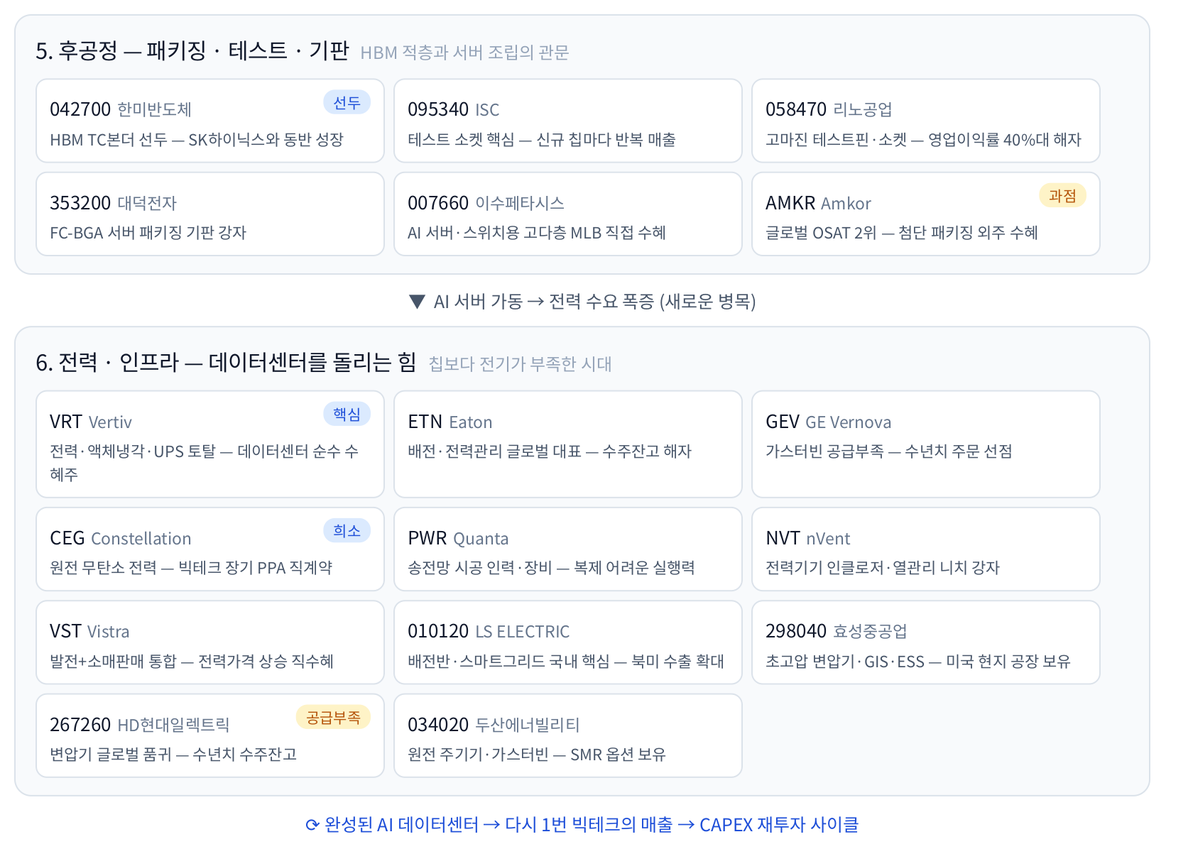
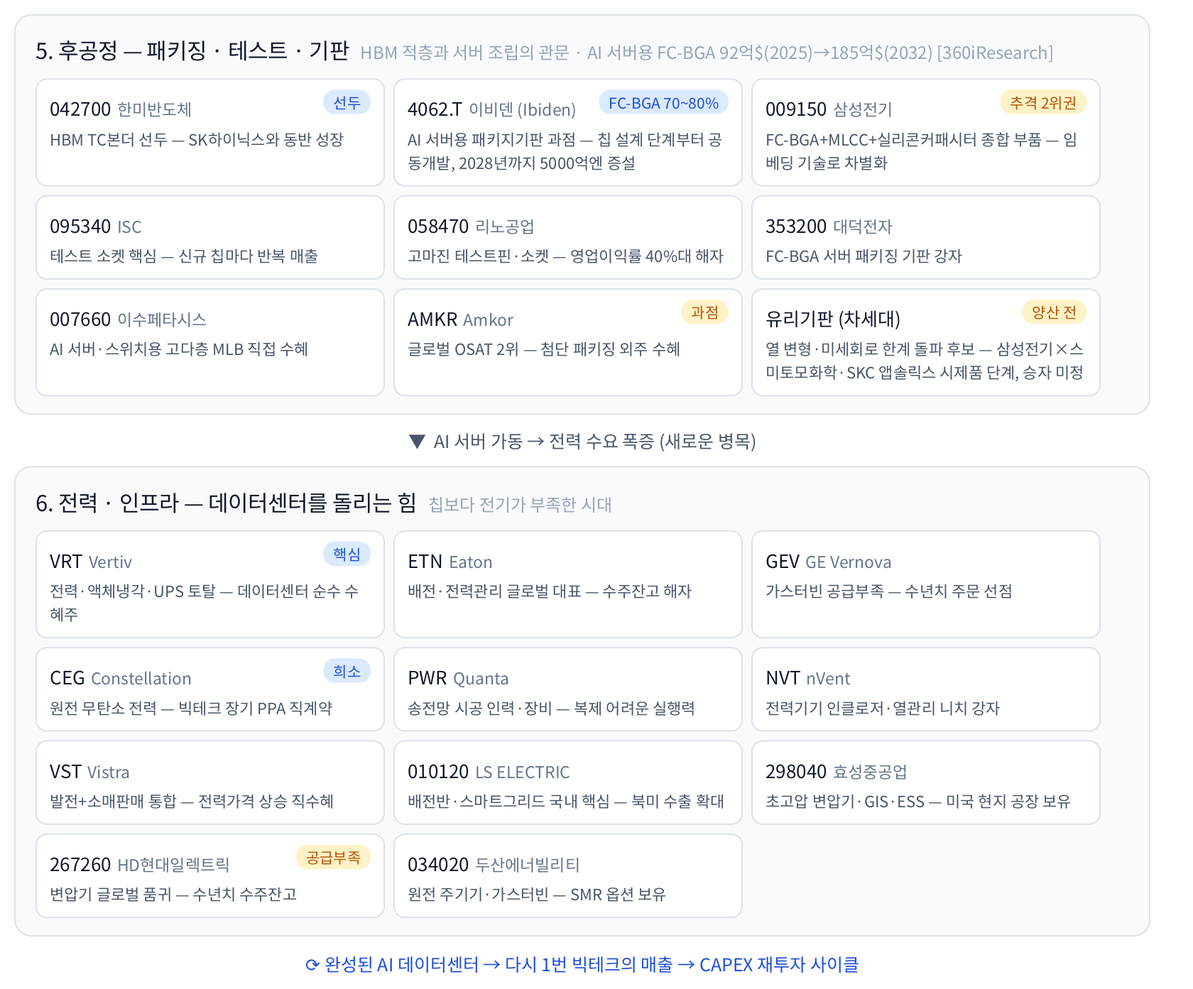
[부록C·D] AI 반도체에 패키지기판(FC-BGA) 축 반영(v3.90.0·plugin 1.43.0) — 이비덴(FC-BGA 70~80% 과점)·삼성전기 추가(46→48종, 야후 실측 48/48·errs 0), 부록D 후공정에 이비덴·삼성전기·유리기판(양산 전) 카드+시장수치(92억$→185억$) 추가·PNG 3장 재생성 렌더 확인, fetch_appc 분모 39 하드코딩 수정. 근거: 매경LUXMEN 2026.09 '이비덴 독주에 삼성전기 맹추격'

Changed region(s): [[0.031, 0.3712, 0.9286, 0.9281], [0.0, 0.0, 0.9595, 0.4022], [0.2476, 0.959, 0.7429, 0.99]]

diff --git a/assets/appd_valuechain.html b/assets/appd_valuechain.html
@@ -19,4 +19,4 @@ body { font-family:'Noto Sans CJK KR','Noto Sans KR',sans-serif; margin:0; paddi
 .b2 { background:#fef3c7; color:#b45309; }
 .arr { text-align:center; color:#475569; font-size:12.5px; padding:9px 0; }
 .cyc { text-align:center; color:#1d4ed8; font-size:12.5px; padding:10px 0 2px; }
-</style></head><body><div class="leg"><span class="b1">독점·준독점</span> 대체재가 사실상 없음&nbsp;&nbsp;&nbsp;<span class="b2">과점·복점·양강</span> 2~3개사가 시장 분할</div><div class="sec"><div class="sh"><span class="t">1. 수요 — 빅테크 (돈의 출발점)</span><span class="s">연 수천억 달러 AI CAPEX 집행</span></div><div class="cards"><div class="card"><span class="tk">MSFT</span><span class="nm">Microsoft</span><div class="mo">OpenAI 동맹 + Azure — AI 소프트웨어 배급망 장악</div></div><div class="card"><span class="tk">GOOGL</span><span class="nm">Alphabet</span><div class="mo">자체 TPU 설계 + 검색·클라우드 데이터 해자</div></div><div class="card"><span class="tk">AMZN</span><span class="nm">Amazon</span><div class="mo">AWS 점유 1위 + 자체칩(Trainium)으로 원가 통제</div></div><div class="card"><span class="tk">META</span><span class="nm">Meta</span><div class="mo">광고 AI로 CAPEX를 즉시 수익화하는 구조</div></div><div class="card"><span class="tk">ORCL</span><span class="nm">Oracle</span><div class="mo">OCI 대형 AI 계약 수주로 '제4 클라우드' 부상</div></div></div></div><div class="arr">▼&nbsp;&nbsp;AI 칩 주문 — CAPEX가 아래로 흘러내린다</div><div class="sec"><div class="sh"><span class="t">2. 설계 — 팹리스 · EDA · 인터커넥트</span><span class="s">공장 없이 설계도와 생태계로 지배</span></div><div class="cards"><div class="card"><span class="b1">독점적</span><span class="tk">NVDA</span><span class="nm">NVIDIA</span><div class="mo">CUDA 소프트웨어 락인 — 칩이 아니라 생태계가 해자</div></div><div class="card"><span class="tk">AMD</span><span class="nm">AMD</span><div class="mo">유일하게 규모 있는 GPU 대안 — 수요처가 키워주는 2등</div></div><div class="card"><span class="b2">과점</span><span class="tk">AVGO</span><span class="nm">Broadcom</span><div class="mo">빅테크 자체칩(ASIC) 설계 대행 + 네트워크칩 지배</div></div><div class="card"><span class="tk">MRVL</span><span class="nm">Marvell</span><div class="mo">커스텀 실리콘 2강 — Broadcom과 시장 분할</div></div><div class="card"><span class="b1">표준</span><span class="tk">ARM</span><span class="nm">Arm</span><div class="mo">저전력 CPU 설계 IP의 사실상 표준 — 로열티 수취</div></div><div class="card"><span class="b2">복점</span><span class="tk">SNPS</span><span class="nm">Synopsys</span><div class="mo">EDA 툴 없인 칩 설계 불가 — Cadence와 복점</div></div><div class="card"><span class="b2">복점</span><span class="tk">CDNS</span><span class="nm">Cadence</span><div class="mo">설계·검증 EDA 복점의 다른 한 축</div></div><div class="card"><span class="tk">ANET</span><span class="nm">Arista</span><div class="mo">GPU 수만 개를 묶는 AI 클러스터 스위치 1위</div></div><div class="card"><span class="tk">CRDO</span><span class="nm">Credo</span><div class="mo">칩 간 고속연결 SerDes — 대역폭 병목 해소</div></div><div class="card"><span class="tk">ALAB</span><span class="nm">Astera Labs</span><div class="mo">PCIe/CXL 리타이머 선점 — AI 서버 표준 부품화</div></div></div></div><div class="arr">▼&nbsp;&nbsp;설계도 → 위탁생산 (장비·소재 없이는 공장이 못 돈다)</div><div class="sec"><div class="sh"><span class="t">3. 장비 · 소재 — 제조의 병목 공급자</span><span class="s">파운드리·메모리가 전량 의존</span></div><div class="cards"><div class="card"><span class="b1">완전독점</span><span class="tk">ASML</span><span class="nm">ASML</span><div class="mo">EUV 노광기 지구상 유일 제조사 — 최상위 병목</div></div><div class="card"><span class="tk">AMAT</span><span class="nm">Applied Materials</span><div class="mo">증착·이온주입 등 최광폭 장비 포트폴리오</div></div><div class="card"><span class="b2">과점</span><span class="tk">LRCX</span><span class="nm">Lam Research</span><div class="mo">식각 장비 강자 — 적층 늘수록 수혜</div></div><div class="card"><span class="b1">독점적</span><span class="tk">KLAC</span><span class="nm">KLA</span><div class="mo">검사·계측 점유 과반 — 수율 관리의 관문</div></div><div class="card"><span class="b1">준독점</span><span class="tk">8035.T</span><span class="nm">Tokyo Electron</span><div class="mo">포토레지스트 도포 트랙 등 준독점 영역 보유</div></div><div class="card"><span class="b2">양강</span><span class="tk">6857.T</span><span class="nm">Advantest</span><div class="mo">AI 가속기·HBM 테스터 양강 — 검사 없인 출하 불가</div></div><div class="card"><span class="b1">준독점</span><span class="tk">6146.T</span><span class="nm">Disco</span><div class="mo">웨이퍼 그라인더·다이서 사실상 독점 — HBM 적층 필수</div></div><div class="card"><span class="b2">양강</span><span class="tk">4063.T</span><span class="nm">Shin-Etsu</span><div class="mo">실리콘 웨이퍼·포토레지스트 최상위 소재</div></div><div class="card"><span class="b2">양강</span><span class="tk">3436.T</span><span class="nm">SUMCO</span><div class="mo">웨이퍼 양강의 다른 축 — 신규진입 사실상 불가</div></div></div></div><div class="arr">▼&nbsp;&nbsp;장비·소재 공급</div><div class="sec"><div class="sh"><span class="t">4. 제조 — 파운드리 & 메모리(HBM)</span><span class="s">설계도를 실물 칩으로</span></div><div class="cards"><div class="card"><span class="b1">독점적</span><span class="tk">TSM</span><span class="nm">TSMC</span><div class="mo">3nm 이하 선단공정 사실상 독점 — NVDA·AMD·AVGO 전부 여기서 생산</div></div><div class="card"><span class="tk">005930</span><span class="nm">삼성전자</span><div class="mo">메모리+파운드리 동시 보유 유일 기업</div></div><div class="card"><span class="tk">INTC</span><span class="nm">Intel</span><div class="mo">미국 내 파운드리 재건 — 지정학이 만든 옵션가치</div></div><div class="card"><span class="b1">1위</span><span class="tk">000660</span><span class="nm">SK하이닉스</span><div class="mo">HBM 점유 1위 — NVIDIA 최우선 공급사 지위</div></div><div class="card"><span class="b2">3강</span><span class="tk">MU</span><span class="nm">Micron</span><div class="mo">HBM·DRAM 3강 — 미국 유일 메모리사</div></div></div></div><div class="arr">▼&nbsp;&nbsp;칩 완성 → 적층·패키징·테스트 (한국 기업 밀집 구간)</div><div class="sec"><div class="sh"><span class="t">5. 후공정 — 패키징 · 테스트 · 기판</span><span class="s">HBM 적층과 서버 조립의 관문</span></div><div class="cards"><div class="card"><span class="b1">선두</span><span class="tk">042700</span><span class="nm">한미반도체</span><div class="mo">HBM TC본더 선두 — SK하이닉스와 동반 성장</div></div><div class="card"><span class="tk">095340</span><span class="nm">ISC</span><div class="mo">테스트 소켓 핵심 — 신규 칩마다 반복 매출</div></div><div class="card"><span class="tk">058470</span><span class="nm">리노공업</span><div class="mo">고마진 테스트핀·소켓 — 영업이익률 40%대 해자</div></div><div class="card"><span class="tk">353200</span><span class="nm">대덕전자</span><div class="mo">FC-BGA 서버 패키징 기판 강자</div></div><div class="card"><span class="tk">007660</span><span class="nm">이수페타시스</span><div class="mo">AI 서버·스위치용 고다층 MLB 직접 수혜</div></div><div class="card"><span class="b2">과점</span><span class="tk">AMKR</span><span class="nm">Amkor</span><div class="mo">글로벌 OSAT 2위 — 첨단 패키징 외주 수혜</div></div></div></div><div class="arr">▼&nbsp;&nbsp;AI 서버 가동 → 전력 수요 폭증 (새로운 병목)</div><div class="sec"><div class="sh"><span class="t">6. 전력 · 인프라 — 데이터센터를 돌리는 힘</span><span class="s">칩보다 전기가 부족한 시대</span></div><div class="cards"><div class="card"><span class="b1">핵심</span><span class="tk">VRT</span><span class="nm">Vertiv</span><div class="mo">전력·액체냉각·UPS 토탈 — 데이터센터 순수 수혜주</div></div><div class="card"><span class="tk">ETN</span><span class="nm">Eaton</span><div class="mo">배전·전력관리 글로벌 대표 — 수주잔고 해자</div></div><div class="card"><span class="tk">GEV</span><span class="nm">GE Vernova</span><div class="mo">가스터빈 공급부족 — 수년치 주문 선점</div></div><div class="card"><span class="b1">희소</span><span class="tk">CEG</span><span class="nm">Constellation</span><div class="mo">원전 무탄소 전력 — 빅테크 장기 PPA 직계약</div></div><div class="card"><span class="tk">PWR</span><span class="nm">Quanta</span><div class="mo">송전망 시공 인력·장비 — 복제 어려운 실행력</div></div><div class="card"><span class="tk">NVT</span><span class="nm">nVent</span><div class="mo">전력기기 인클로저·열관리 니치 강자</div></div><div class="card"><span class="tk">VST</span><span class="nm">Vistra</span><div class="mo">발전+소매판매 통합 — 전력가격 상승 직수혜</div></div><div class="card"><span class="tk">010120</span><span class="nm">LS ELECTRIC</span><div class="mo">배전반·스마트그리드 국내 핵심 — 북미 수출 확대</div></div><div class="card"><span class="tk">298040</span><span class="nm">효성중공업</span><div class="mo">초고압 변압기·GIS·ESS — 미국 현지 공장 보유</div></div><div class="card"><span class="b2">공급부족</span><span class="tk">267260</span><span class="nm">HD현대일렉트릭</span><div class="mo">변압기 글로벌 품귀 — 수년치 수주잔고</div></div><div class="card"><span class="tk">034020</span><span class="nm">두산에너빌리티</span><div class="mo">원전 주기기·가스터빈 — SMR 옵션 보유</div></div></div></div><div class="cyc">⟳ 완성된 AI 데이터센터 → 다시 1번 빅테크의 매출 → CAPEX 재투자 사이클</div></body></html>
+</style></head><body><div class="leg"><span class="b1">독점·준독점</span> 대체재가 사실상 없음&nbsp;&nbsp;&nbsp;<span class="b2">과점·복점·양강</span> 2~3개사가 시장 분할</div><div class="sec"><div class="sh"><span class="t">1. 수요 — 빅테크 (돈의 출발점)</span><span class="s">연 수천억 달러 AI CAPEX 집행</span></div><div class="cards"><div class="card"><span class="tk">MSFT</span><span class="nm">Microsoft</span><div class="mo">OpenAI 동맹 + Azure — AI 소프트웨어 배급망 장악</div></div><div class="card"><span class="tk">GOOGL</span><span class="nm">Alphabet</span><div class="mo">자체 TPU 설계 + 검색·클라우드 데이터 해자</div></div><div class="card"><span class="tk">AMZN</span><span class="nm">Amazon</span><div class="mo">AWS 점유 1위 + 자체칩(Trainium)으로 원가 통제</div></div><div class="card"><span class="tk">META</span><span class="nm">Meta</span><div class="mo">광고 AI로 CAPEX를 즉시 수익화하는 구조</div></div><div class="card"><span class="tk">ORCL</span><span class="nm">Oracle</span><div class="mo">OCI 대형 AI 계약 수주로 '제4 클라우드' 부상</div></div></div></div><div class="arr">▼&nbsp;&nbsp;AI 칩 주문 — CAPEX가 아래로 흘러내린다</div><div class="sec"><div class="sh"><span class="t">2. 설계 — 팹리스 · EDA · 인터커넥트</span><span class="s">공장 없이 설계도와 생태계로 지배</span></div><div class="cards"><div class="card"><span class="b1">독점적</span><span class="tk">NVDA</span><span class="nm">NVIDIA</span><div class="mo">CUDA 소프트웨어 락인 — 칩이 아니라 생태계가 해자</div></div><div class="card"><span class="tk">AMD</span><span class="nm">AMD</span><div class="mo">유일하게 규모 있는 GPU 대안 — 수요처가 키워주는 2등</div></div><div class="card"><span class="b2">과점</span><span class="tk">AVGO</span><span class="nm">Broadcom</span><div class="mo">빅테크 자체칩(ASIC) 설계 대행 + 네트워크칩 지배</div></div><div class="card"><span class="tk">MRVL</span><span class="nm">Marvell</span><div class="mo">커스텀 실리콘 2강 — Broadcom과 시장 분할</div></div><div class="card"><span class="b1">표준</span><span class="tk">ARM</span><span class="nm">Arm</span><div class="mo">저전력 CPU 설계 IP의 사실상 표준 — 로열티 수취</div></div><div class="card"><span class="b2">복점</span><span class="tk">SNPS</span><span class="nm">Synopsys</span><div class="mo">EDA 툴 없인 칩 설계 불가 — Cadence와 복점</div></div><div class="card"><span class="b2">복점</span><span class="tk">CDNS</span><span class="nm">Cadence</span><div class="mo">설계·검증 EDA 복점의 다른 한 축</div></div><div class="card"><span class="tk">ANET</span><span class="nm">Arista</span><div class="mo">GPU 수만 개를 묶는 AI 클러스터 스위치 1위</div></div><div class="card"><span class="tk">CRDO</span><span class="nm">Credo</span><div class="mo">칩 간 고속연결 SerDes — 대역폭 병목 해소</div></div><div class="card"><span class="tk">ALAB</span><span class="nm">Astera Labs</span><div class="mo">PCIe/CXL 리타이머 선점 — AI 서버 표준 부품화</div></div></div></div><div class="arr">▼&nbsp;&nbsp;설계도 → 위탁생산 (장비·소재 없이는 공장이 못 돈다)</div><div class="sec"><div class="sh"><span class="t">3. 장비 · 소재 — 제조의 병목 공급자</span><span class="s">파운드리·메모리가 전량 의존</span></div><div class="cards"><div class="card"><span class="b1">완전독점</span><span class="tk">ASML</span><span class="nm">ASML</span><div class="mo">EUV 노광기 지구상 유일 제조사 — 최상위 병목</div></div><div class="card"><span class="tk">AMAT</span><span class="nm">Applied Materials</span><div class="mo">증착·이온주입 등 최광폭 장비 포트폴리오</div></div><div class="card"><span class="b2">과점</span><span class="tk">LRCX</span><span class="nm">Lam Research</span><div class="mo">식각 장비 강자 — 적층 늘수록 수혜</div></div><div class="card"><span class="b1">독점적</span><span class="tk">KLAC</span><span class="nm">KLA</span><div class="mo">검사·계측 점유 과반 — 수율 관리의 관문</div></div><div class="card"><span class="b1">준독점</span><span class="tk">8035.T</span><span class="nm">Tokyo Electron</span><div class="mo">포토레지스트 도포 트랙 등 준독점 영역 보유</div></div><div class="card"><span class="b2">양강</span><span class="tk">6857.T</span><span class="nm">Advantest</span><div class="mo">AI 가속기·HBM 테스터 양강 — 검사 없인 출하 불가</div></div><div class="card"><span class="b1">준독점</span><span class="tk">6146.T</span><span class="nm">Disco</span><div class="mo">웨이퍼 그라인더·다이서 사실상 독점 — HBM 적층 필수</div></div><div class="card"><span class="b2">양강</span><span class="tk">4063.T</span><span class="nm">Shin-Etsu</span><div class="mo">실리콘 웨이퍼·포토레지스트 최상위 소재</div></div><div class="card"><span class="b2">양강</span><span class="tk">3436.T</span><span class="nm">SUMCO</span><div class="mo">웨이퍼 양강의 다른 축 — 신규진입 사실상 불가</div></div></div></div><div class="arr">▼&nbsp;&nbsp;장비·소재 공급</div><div class="sec"><div class="sh"><span class="t">4. 제조 — 파운드리 & 메모리(HBM)</span><span class="s">설계도를 실물 칩으로</span></div><div class="cards"><div class="card"><span class="b1">독점적</span><span class="tk">TSM</span><span class="nm">TSMC</span><div class="mo">3nm 이하 선단공정 사실상 독점 — NVDA·AMD·AVGO 전부 여기서 생산</div></div><div class="card"><span class="tk">005930</span><span class="nm">삼성전자</span><div class="mo">메모리+파운드리 동시 보유 유일 기업</div></div><div class="card"><span class="tk">INTC</span><span class="nm">Intel</span><div class="mo">미국 내 파운드리 재건 — 지정학이 만든 옵션가치</div></div><div class="card"><span class="b1">1위</span><span class="tk">000660</span><span class="nm">SK하이닉스</span><div class="mo">HBM 점유 1위 — NVIDIA 최우선 공급사 지위</div></div><div class="card"><span class="b2">3강</span><span class="tk">MU</span><span class="nm">Micron</span><div class="mo">HBM·DRAM 3강 — 미국 유일 메모리사</div></div></div></div><div class="arr">▼&nbsp;&nbsp;칩 완성 → 적층·패키징·테스트 (한국 기업 밀집 구간)</div><div class="sec"><div class="sh"><span class="t">5. 후공정 — 패키징 · 테스트 · 기판</span><span class="s">HBM 적층과 서버 조립의 관문 · AI 서버용 FC-BGA 92억$(2025)→185억$(2032) [360iResearch]</span></div><div class="cards"><div class="card"><span class="b1">선두</span><span class="tk">042700</span><span class="nm">한미반도체</span><div class="mo">HBM TC본더 선두 — SK하이닉스와 동반 성장</div></div><div class="card"><span class="b1">FC-BGA 70~80%</span><span class="tk">4062.T</span><span class="nm">이비덴 (Ibiden)</span><div class="mo">AI 서버용 패키지기판 과점 — 칩 설계 단계부터 공동개발, 2028년까지 5000억엔 증설</div></div><div class="card"><span class="b2">추격 2위권</span><span class="tk">009150</span><span class="nm">삼성전기</span><div class="mo">FC-BGA+MLCC+실리콘커패시터 종합 부품 — 임베딩 기술로 차별화</div></div><div class="card"><span class="tk">095340</span><span class="nm">ISC</span><div class="mo">테스트 소켓 핵심 — 신규 칩마다 반복 매출</div></div><div class="card"><span class="tk">058470</span><span class="nm">리노공업</span><div class="mo">고마진 테스트핀·소켓 — 영업이익률 40%대 해자</div></div><div class="card"><span class="tk">353200</span><span class="nm">대덕전자</span><div class="mo">FC-BGA 서버 패키징 기판 강자</div></div><div class="card"><span class="tk">007660</span><span class="nm">이수페타시스</span><div class="mo">AI 서버·스위치용 고다층 MLB 직접 수혜</div></div><div class="card"><span class="b2">과점</span><span class="tk">AMKR</span><span class="nm">Amkor</span><div class="mo">글로벌 OSAT 2위 — 첨단 패키징 외주 수혜</div></div><div class="card"><span class="b2">양산 전</span><span class="tk">유리기판 (차세대)</span><span class="nm"></span><div class="mo">열 변형·미세회로 한계 돌파 후보 — 삼성전기×스미토모화학·SKC 앱솔릭스 시제품 단계, 승자 미정</div></div></div></div><div class="arr">▼&nbsp;&nbsp;AI 서버 가동 → 전력 수요 폭증 (새로운 병목)</div><div class="sec"><div class="sh"><span class="t">6. 전력 · 인프라 — 데이터센터를 돌리는 힘</span><span class="s">칩보다 전기가 부족한 시대</span></div><div class="cards"><div class="card"><span class="b1">핵심</span><span class="tk">VRT</span><span class="nm">Vertiv</span><div class="mo">전력·액체냉각·UPS 토탈 — 데이터센터 순수 수혜주</div></div><div class="card"><span class="tk">ETN</span><span class="nm">Eaton</span><div class="mo">배전·전력관리 글로벌 대표 — 수주잔고 해자</div></div><div class="card"><span class="tk">GEV</span><span class="nm">GE Vernova</span><div class="mo">가스터빈 공급부족 — 수년치 주문 선점</div></div><div class="card"><span class="b1">희소</span><span class="tk">CEG</span><span class="nm">Constellation</span><div class="mo">원전 무탄소 전력 — 빅테크 장기 PPA 직계약</div></div><div class="card"><span class="tk">PWR</span><span class="nm">Quanta</span><div class="mo">송전망 시공 인력·장비 — 복제 어려운 실행력</div></div><div class="card"><span class="tk">NVT</span><span class="nm">nVent</span><div class="mo">전력기기 인클로저·열관리 니치 강자</div></div><div class="card"><span class="tk">VST</span><span class="nm">Vistra</span><div class="mo">발전+소매판매 통합 — 전력가격 상승 직수혜</div></div><div class="card"><span class="tk">010120</span><span class="nm">LS ELECTRIC</span><div class="mo">배전반·스마트그리드 국내 핵심 — 북미 수출 확대</div></div><div class="card"><span class="tk">298040</span><span class="nm">효성중공업</span><div class="mo">초고압 변압기·GIS·ESS — 미국 현지 공장 보유</div></div><div class="card"><span class="b2">공급부족</span><span class="tk">267260</span><span class="nm">HD현대일렉트릭</span><div class="mo">변압기 글로벌 품귀 — 수년치 수주잔고</div></div><div class="card"><span class="tk">034020</span><span class="nm">두산에너빌리티</span><div class="mo">원전 주기기·가스터빈 — SMR 옵션 보유</div></div></div></div><div class="cyc">⟳ 완성된 AI 데이터센터 → 다시 1번 빅테크의 매출 → CAPEX 재투자 사이클</div></body></html>

diff --git a/plugins/namoobi-market-report/skills/namoobi-market-report/scripts/build_report.js b/plugins/namoobi-market-report/skills/namoobi-market-report/scripts/build_report.js
@@ -1759,7 +1759,7 @@ function renderAITrends(){ const a=data.ai_trends; if(!a)return;
   });
   children.push(p("※ 본 부록은 news.hada.io · news.hada.io/weekly · 특이점 갤러리 등 공개 소스와 웹 검색으로 큐레이션한 참고용 요약입니다.",{size:16,italics:true,color:"94A3B8"}));
 }
-// (v3.51) [부록C] AI 반도체 밸류체인 — 글로벌 개별종목 43종(분류 그룹별 추세표). 데이터(markets.appendix_c) 없으면 자동 생략.
+// (v3.51) [부록C] AI 반도체 밸류체인 — 글로벌 개별종목 48종(분류 그룹별 추세표, v3.90 이비덴·삼성전기 추가). 데이터(markets.appendix_c) 없으면 자동 생략.
 function renderAppendixC(){ const e=data.markets&&data.markets.appendix_c; if(!e||!e.rows||typeof e.rows!=="object")return;
   const groups=Array.isArray(e.groups)?e.groups:Object.keys(e.rows);
   const GL="①②③④⑤⑥⑦⑧⑨⑩";

diff --git a/plugins/namoobi-market-report/skills/namoobi-market-report/scripts/fetch_appc.py b/plugins/namoobi-market-report/skills/namoobi-market-report/scripts/fetch_appc.py
@@ -1,5 +1,6 @@
 #!/usr/bin/env python3
-# fetch_appc.py — [부록C] AI 반도체 밸류체인 46종 (미국 31·일본 4·한국 11) — v3.51 신설, v3.52.1 ORCL·이수페타시스·AMKR 추가
+# fetch_appc.py — [부록C] AI 반도체 밸류체인 48종 (미국 31·일본 5·한국 12) — v3.51 신설, v3.52.1 ORCL·이수페타시스·AMKR 추가,
+#   v3.90 이비덴·삼성전기 추가(패키지기판 FC-BGA 축 — 매경LUXMEN 2026.09 'AI 반도체 승부처 칩에서 기판으로' 반영)
 # sandbox·stdlib·스레드 병렬(Phase 1 bash tool-call). 야후 일봉 2y → nmr_appc.json(그룹별 rows)+nmr_appc_series.json(1Y 스파크).
 # 멤버십 변경 시 ROWS 갱신. 추정 금지 — 이력 없으면 '-'(비차단).
 import urllib.request, urllib.parse, json, datetime as dt, concurrent.futures as cf, os, sys
@@ -39,6 +40,8 @@ ROWS=[
  ("후공정/패키징","042700.KS","한미반도체","HBM 본딩 장비 대표주"),
  ("후공정/패키징","095340.KQ","ISC","테스트 소켓 핵심 기업"),
  ("후공정/패키징","058470.KQ","리노공업","고마진 테스트 소켓 강자"),
+ ("후공정/패키징","4062.T","이비덴 (Ibiden)","AI 서버용 FC-BGA 70~80% 과점 — 엔비디아 등 공급망 선점, 2028년까지 5000억엔 증설"),
+ ("후공정/패키징","009150.KS","삼성전기","FC-BGA+MLCC+실리콘커패시터 종합 부품으로 이비덴 추격 — 스미토모화학과 유리기판 개발"),
  ("후공정/패키징","353200.KS","대덕전자","서버·패키징 기판 강자"),
  ("후공정/패키징","007660.KS","이수페타시스","AI 서버 고다층 MLB의 직접 수혜주"),
  ("후공정/패키징","AMKR","Amkor Technology","글로벌 OSAT 대표주"),
@@ -112,4 +115,4 @@ for g in GROUPS:
     print(f"◆ {g}")
     for r in out["rows"][g]:
         print(f"  {r['code']:10s} {r['name'][:20]:20s} {(r.get('current') or 0):>11,.2f} {pc(r.get('prev_pct'))} {pc(r.get('1w_pct'))} {pc(r.get('1mo_pct'))} {pc(r.get('3mo_pct'))} {pc(r.get('6mo_pct'))} {pc(r.get('1y_pct'))}")
-print(f"총 {n}/39 · series {len(series)} · errs {errs}")
+print(f"총 {n}/{len(ROWS)} · series {len(series)} · errs {errs}")  # (v3.90) 39 하드코딩 → len(ROWS) — 종목 추가 때마다 어긋나던 분모 수정

diff --git a/assets/gen_appd_valuechain.py b/assets/gen_appd_valuechain.py
@@ -56,13 +56,16 @@ SECTIONS = [
   ("000660","SK하이닉스","1위",B1,"HBM 점유 1위 — NVIDIA 최우선 공급사 지위"),
   ("MU","Micron","3강",B2,"HBM·DRAM 3강 — 미국 유일 메모리사"),
  ]),
- ("5. 후공정 — 패키징 · 테스트 · 기판", "HBM 적층과 서버 조립의 관문", [
+ ("5. 후공정 — 패키징 · 테스트 · 기판", "HBM 적층과 서버 조립의 관문 · AI 서버용 FC-BGA 92억$(2025)→185억$(2032) [360iResearch]", [
   ("042700","한미반도체","선두",B1,"HBM TC본더 선두 — SK하이닉스와 동반 성장"),
+  ("4062.T","이비덴 (Ibiden)","FC-BGA 70~80%",B1,"AI 서버용 패키지기판 과점 — 칩 설계 단계부터 공동개발, 2028년까지 5000억엔 증설"),
+  ("009150","삼성전기","추격 2위권",B2,"FC-BGA+MLCC+실리콘커패시터 종합 부품 — 임베딩 기술로 차별화"),
   ("095340","ISC",None,None,"테스트 소켓 핵심 — 신규 칩마다 반복 매출"),
   ("058470","리노공업",None,None,"고마진 테스트핀·소켓 — 영업이익률 40%대 해자"),
   ("353200","대덕전자",None,None,"FC-BGA 서버 패키징 기판 강자"),
   ("007660","이수페타시스",None,None,"AI 서버·스위치용 고다층 MLB 직접 수혜"),
   ("AMKR","Amkor","과점",B2,"글로벌 OSAT 2위 — 첨단 패키징 외주 수혜"),
+  ("유리기판 (차세대)","","양산 전",B2,"열 변형·미세회로 한계 돌파 후보 — 삼성전기×스미토모화학·SKC 앱솔릭스 시제품 단계, 승자 미정"),
  ]),
  ("6. 전력 · 인프라 — 데이터센터를 돌리는 힘", "칩보다 전기가 부족한 시대", [
   ("VRT","Vertiv","핵심",B1,"전력·액체냉각·UPS 토탈 — 데이터센터 순수 수혜주"),

diff --git a/plugins/namoobi-market-report/skills/namoobi-market-report/CHANGELOG.md b/plugins/namoobi-market-report/skills/namoobi-market-report/CHANGELOG.md
@@ -1,5 +1,17 @@
 # Namoobi Market Report — 변경이력 (CHANGELOG)
 
+## v3.90.0 (plugin 1.43.0, 2026-08-29) — [부록C·D] AI 반도체에 패키지기판(FC-BGA) 축 반영
+
+- 매경LUXMEN 2026.09 'AI 반도체 승부처 칩에서 기판으로' 반영 — 후공정 단에 기판 축이 비어 있던 공백 보완.
+- **[부록C] 46→48종**: 이비덴(4062.T — AI 서버용 FC-BGA 70~80% 과점·2028년까지 5000억엔 증설),
+  삼성전기(009150 — FC-BGA+MLCC+실리콘커패시터 종합 부품·스미토모화학과 유리기판 개발) 추가.
+  야후 수신 실측(이비덴 20,175엔·삼성전기 1,421,000원, 48/48 수집·errs 0).
+- **[부록D] 후공정 섹션**: 부제에 시장 수치(AI 서버용 FC-BGA 92억$(2025)→185억$(2032, 360iResearch)),
+  이비덴(파랑 'FC-BGA 70~80%')·삼성전기(황색 '추격 2위권')·유리기판(황색 '양산 전' — 삼성전기×스미토모·SKC 앱솔릭스
+  시제품 단계, 승자 미정) 카드 3장 추가. PNG 3장 재생성 — 렌더 실측 확인.
+- LG이노텍·코리아써키트·SKC 는 실적 실체(진출 추진 단계)가 약해 종목표 편입 보류 — 유리기판 카드에 이름만 언급.
+- fetch_appc 출력 분모 하드코딩(39) → len(ROWS) 수정.
+
 ## v3.89.0 (plugin 1.42.0, 2026-08-29) — [부록E·F] 피지컬 AI 갱신: 유니트리 상장 편입 등 (매경LUXMEN 2026.09 반영)
 
 - **유니트리 상장 편입**: 2026.8.19 상하이 STAR 상장(688836, 공모 150.8위안·첫날 +460%·시총 약 530억$).
